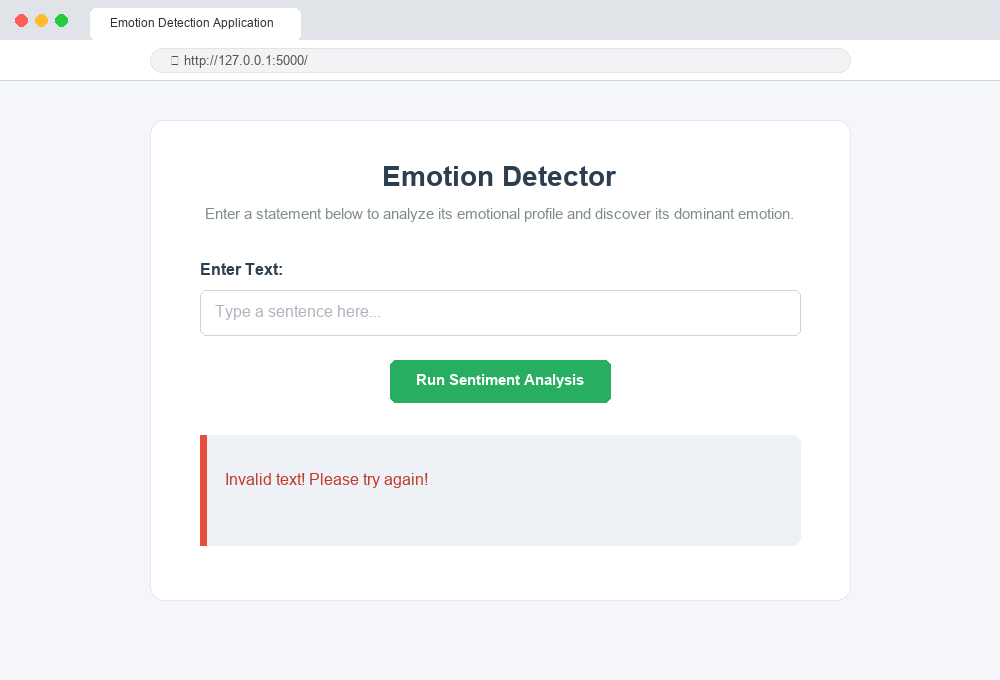
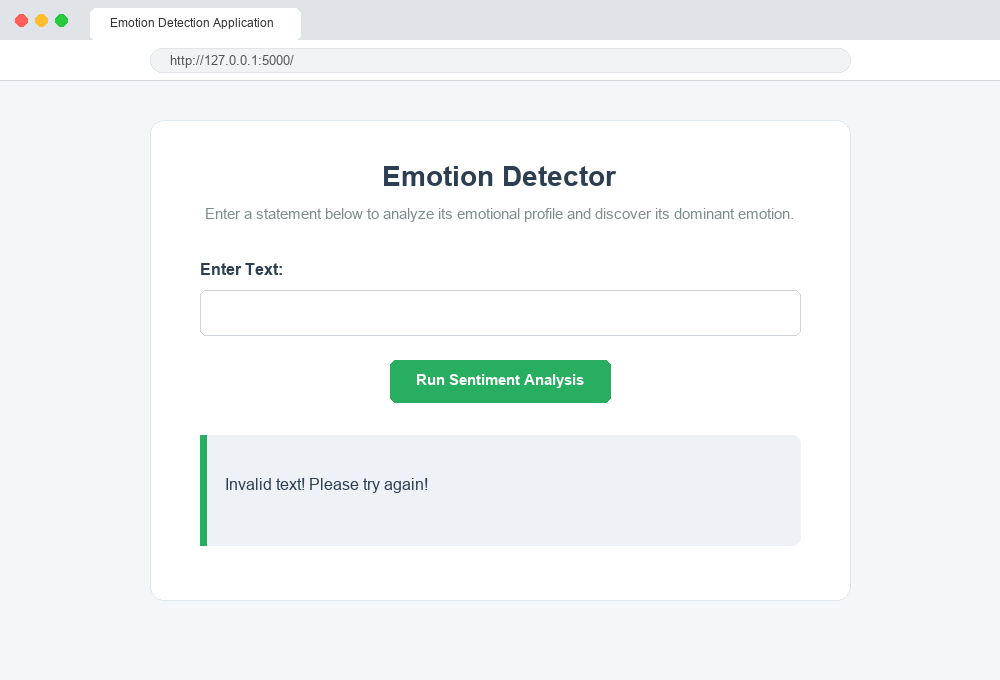
Update Watson NLP URLs to skills.network, fix terminal prompts, and regenerate error handling screenshot

Changed region(s): [[0.186, 0.6485, 0.434, 0.8029], [0.217, 0.4324, 0.372, 0.4632], [0.155, 0.0618, 0.31, 0.0926]]

diff --git a/EmotionDetection/emotion_detection.py b/EmotionDetection/emotion_detection.py
@@ -10,7 +10,7 @@ def emotion_detector(text_to_analyze):
     containing individual emotion scores and the dominant emotion.
     Handles blank/invalid inputs returning None for each emotion key on status code 400.
     """
-    url = 'https://sn-watson-emotion.labs.skillsnetwork.site/v1/watson.runtime.nlp.v1/NlpService/EmotionPredict'
+    url = 'https://sn-watson-emotion.labs.skills.network/v1/watson.runtime.nlp.v1/NlpService/EmotionPredict'
     myobj = {"raw_document": {"text": text_to_analyze}}
     headers = {"grpc-metadata-mm-model-id": "emotion_aggregated-workflow_lang_en_stock"}
 

diff --git a/README.md b/README.md
@@ -1,4 +1,7 @@
-# Emotion Detection Application using Watson NLP and Flask
+# oaqjp-final-project-emb-ai
+# Final Project: Emotion Detection Application
+
+**Project Name:** Emotion Detection Application
 
 An AI-powered web application that analyzes the emotional tone of text input using IBM Watson NLP and presents the emotional profile along with the dominant emotion through a responsive Flask web interface.
 
@@ -7,6 +10,7 @@ An AI-powered web application that analyzes the emotional tone of text input usi
 ## 📌 Project Overview
 
 This project implements an end-to-end AI application for emotion analysis:
+- **Project Name**: Emotion Detection Application (`oaqjp-final-project-emb-ai`)
 - **Core AI Engine**: Uses IBM Watson NLP EmotionPredict library to predict emotional scores for `anger`, `disgust`, `fear`, `joy`, and `sadness`, determining the `dominant_emotion`.
 - **Modular Architecture**: Packaged into a reusable Python module `EmotionDetection`.
 - **Unit Testing**: Verified with `unittest` across diverse emotional statements.
@@ -19,7 +23,7 @@ This project implements an end-to-end AI application for emotion analysis:
 ## 🗂 Project Structure
 
 ```text
-final-project-emb-ai/
+oaqjp-final-project-emb-ai/
 ├── EmotionDetection/
 │   ├── __init__.py
 │   └── emotion_detection.py
@@ -39,8 +43,8 @@ final-project-emb-ai/
 
 1. Clone the repository:
    ```bash
-   git clone https://github.com/Harshjoshi211/final-project-emb-ai.git
-   cd final-project-emb-ai
+   git clone https://github.com/Harshjoshi211/oaqjp-final-project-emb-ai.git
+   cd oaqjp-final-project-emb-ai
    ```
 
 2. Install dependencies:
